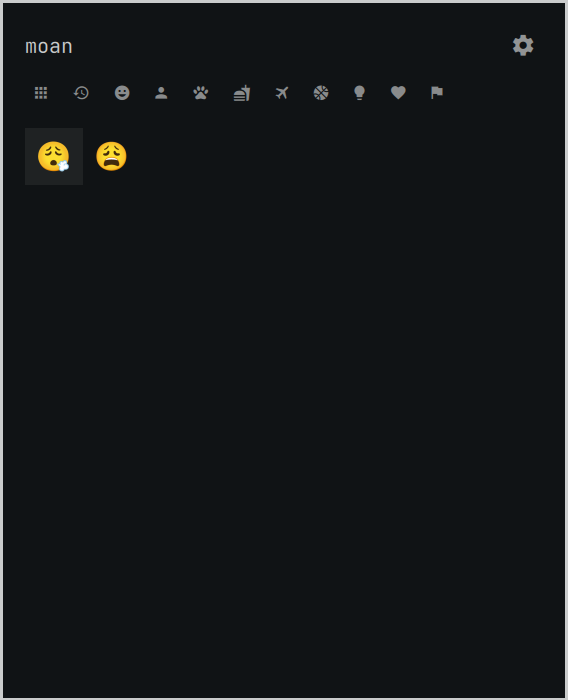
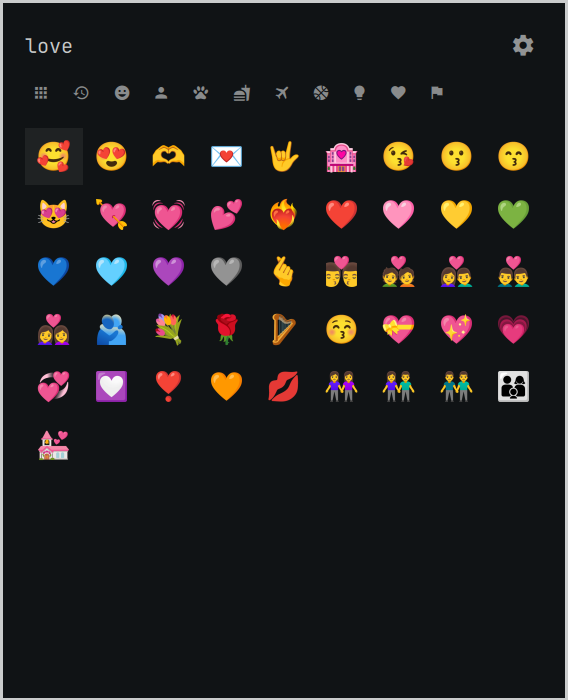
docs(preview): show a richer love search in project screenshots

diff --git a/README.md b/README.md
@@ -8,7 +8,7 @@ This is [Sadra's fork](https://github.com/sadraalikhah/omarchy-better-emojis)
 of [Wessel Boers' Better Emojis](https://github.com/Wessel-Boers/omarchy-better-emojis).
 It retains the original plugin ID, `wessel.better-emojis`.
 
-![Searching moan shows the exhaling and weary faces](docs/images/picker.png)
+![Searching love shows affectionate faces, hearts, and gestures](docs/images/picker.png)
 
 ## Install
 
